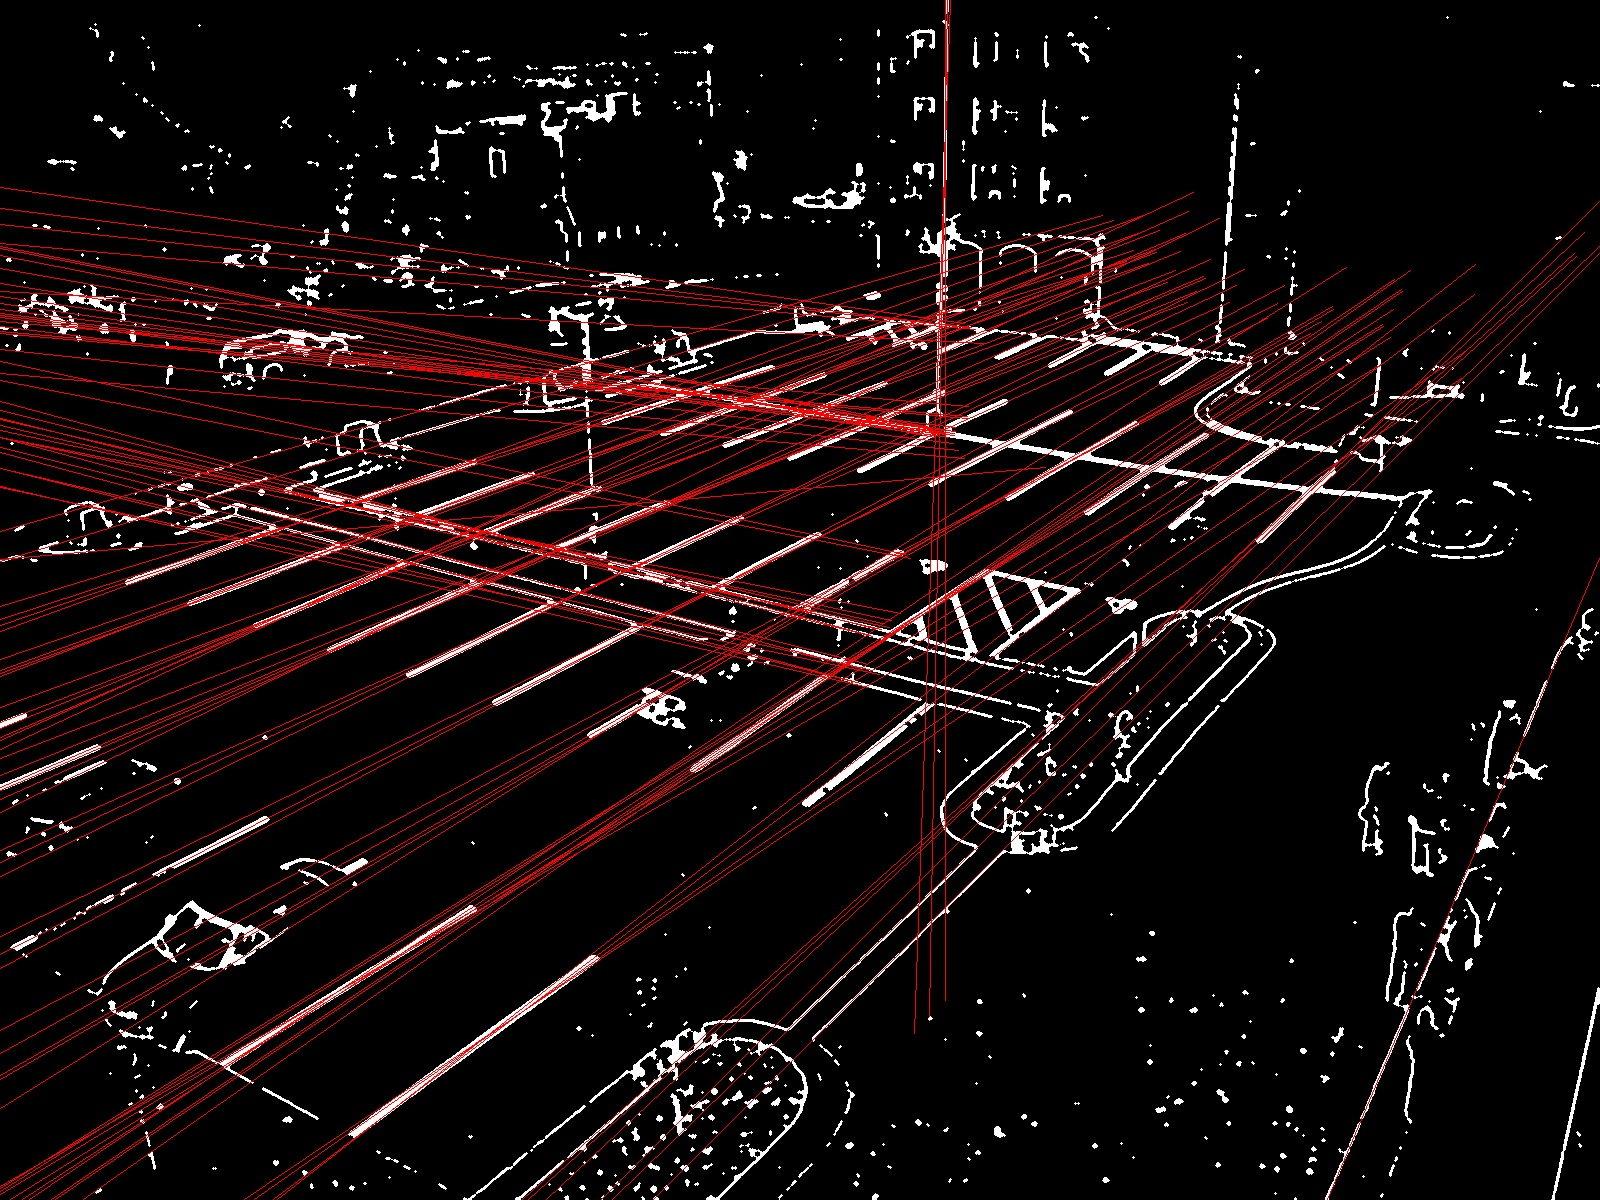
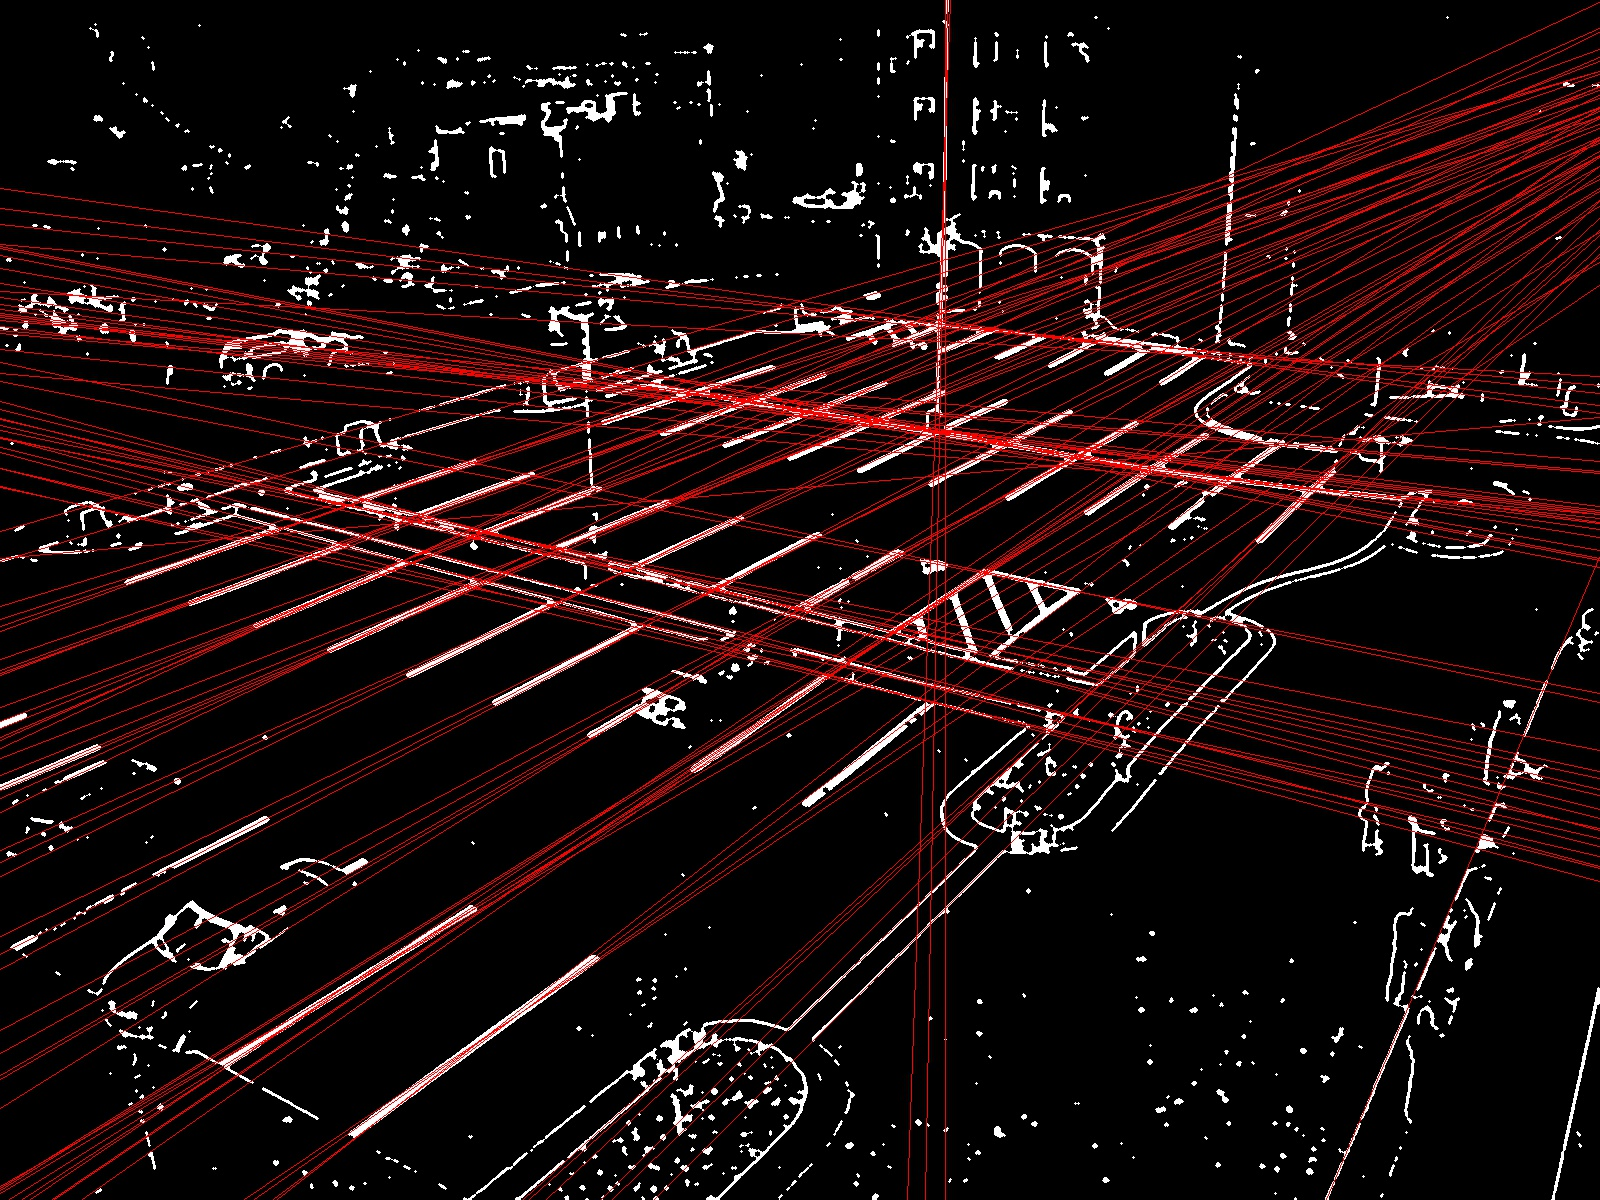
Clusteriza e filtra a clusterização

diff --git a/src/main.cpp b/src/main.cpp
@@ -31,7 +31,7 @@ Mat ExtractFeatureMat(Mat featuresMat, int featureNum);
 #define MAX_LINE_GAP 5.
 #define TAM_DILATA 7 // Pixels
 #define TAM_ERODE 5 // Pixels
-#define TAM_LINE 1000 // Pixels
+#define TAM_LINE 3000 // Pixels
 // Termina Hough
 
 // Começa AKM
@@ -40,6 +40,7 @@ Mat ExtractFeatureMat(Mat featuresMat, int featureNum);
 #define LINE_MAX_DIST 75
 
 std::vector<Vec2f> AKM( std::vector<Vec2f> input, float threshold, float lineMaxDist = LINE_MAX_DIST, unsigned int minLines = 1 );
+void FilterByAKM( std::vector<Vec2f>& input, float threshold, float lineMaxDist = LINE_MAX_DIST, unsigned int minLines = 1 );
 double linesSimilarity( Vec2f lineA, Vec2f lineB, float maxDistance = 50 );
 // Termina AKM
 
@@ -331,13 +332,13 @@ int main(int argc, char** argv){
 
 			// Compute e desenha a clusterização adaptativa
 			std::vector<Vec2f> clusters = AKM(lines, LINE_THRES);
-			std::vector<Vec2f> clustersOfClusters = AKM(clusters, 0.9, 100000, 3);
+			FilterByAKM(clusters, 0.9, 100000, 2);
 
 			Mat houghWithClusteredLines = gray.clone();
 			cvtColor(operado, houghWithClusteredLines, COLOR_GRAY2BGR);
-			for( unsigned int i = 0; i < clustersOfClusters.size(); i++ ) {
-				float rho = clustersOfClusters[i][0];
-				float theta = clustersOfClusters[i][1];
+			for( unsigned int i = 0; i < clusters.size(); i++ ) {
+				float rho = clusters[i][0];
+				float theta = clusters[i][1];
 
 				double a = cos(theta), b = sin(theta);
 				double x0 = a*rho, y0 = b*rho;
@@ -416,6 +417,22 @@ std::vector<Vec2f> AKM( std::vector<Vec2f> input, float threshold, float lineMax
 		}
 	}
 	return means;
+}
+
+void FilterByAKM( std::vector<Vec2f>& input, float threshold, float lineMaxDist, unsigned int minLines ) {
+	std::vector<Vec2f> clusters = AKM(input, threshold, lineMaxDist, minLines);
+	for(unsigned int i = 1; i < input.size(); ++i) {
+		double biggestSimilarity = 0.;
+		for(unsigned int k = 0; k < clusters.size(); ++k) {
+			double similarity = linesSimilarity(input[i], clusters[k], lineMaxDist);
+			if(similarity > biggestSimilarity) {
+				biggestSimilarity = similarity;
+			}
+		}
+		if(biggestSimilarity < threshold) {
+			input.erase(input.begin()+ i--);
+		}
+	}
 }
 
 double linesSimilarity(Vec2f lineA, Vec2f lineB, float maxDistance) {
